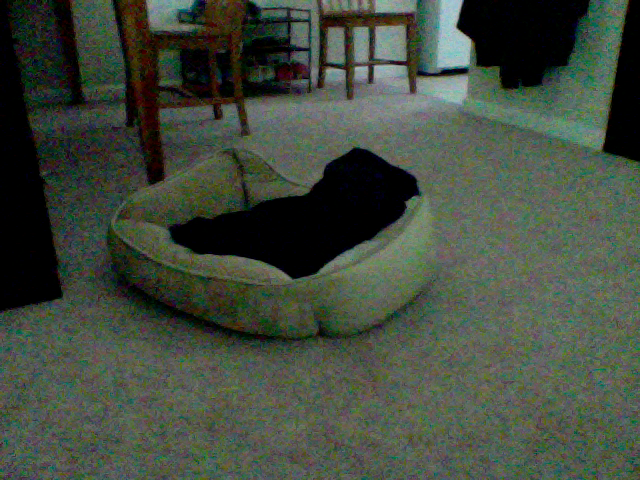
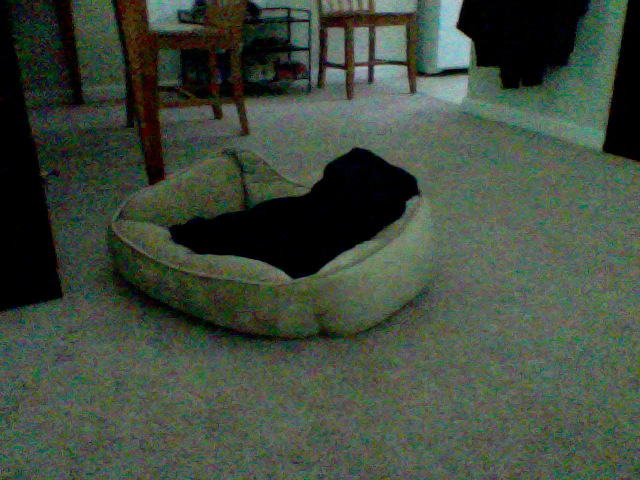
update at Month05Day09Time11:21

diff --git a/index.html b/index.html
@@ -39,8 +39,8 @@
       <!-- Example row of columns -->
       <div class="row">
         <div class="col-md-4">
-	<p>This picture was updated at Month05Day09Time11:20</p>
-		<img src="5_pic.png" />
+	<p>This picture was updated at Month05Day09Time11:21</p>
+		<img src="4_pic.png" />
         </div>
       </div>
 
